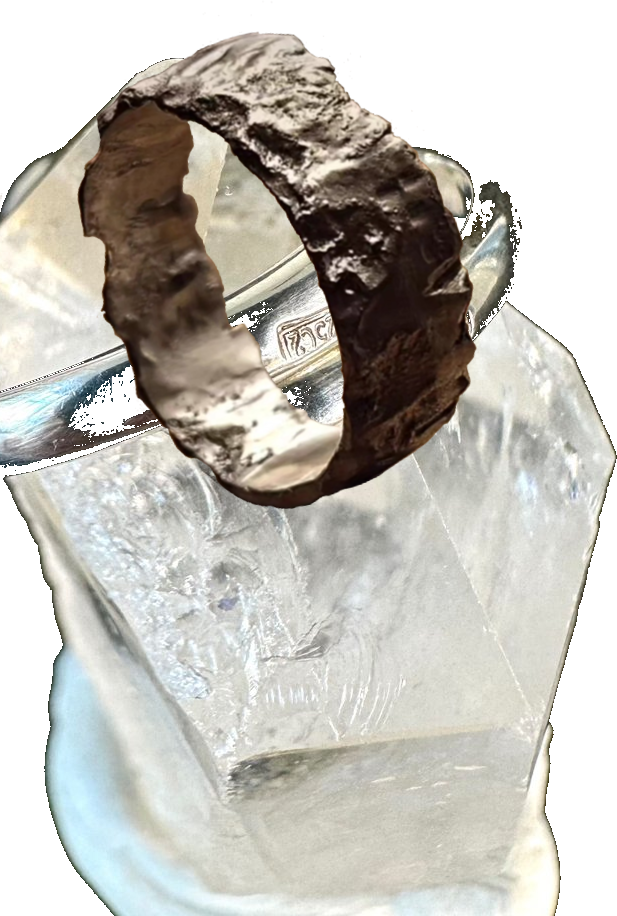
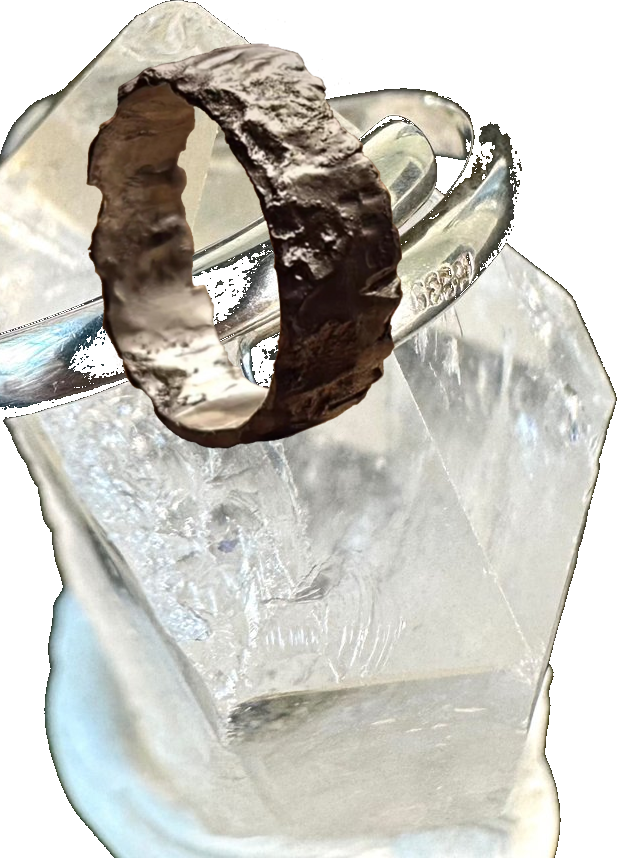
Set the ring upright on the crystal instead of tilted
Redid the composite without the -12deg rotation so the ring stands
straight/vertical on the crystal point. Adjusted .ring-stage's
aspect-ratio to match the new crop (617:858, was 617:916).

diff --git a/css/style.css b/css/style.css
@@ -824,7 +824,7 @@ html.curtain-lock body { overflow: hidden; height: 100%; }
   top: 46%;
   left: 50%;
   width: min(62vmin, 460px);
-  aspect-ratio: 617 / 916; /* Format des Kristall-Sockel-Fotos */
+  aspect-ratio: 617 / 858; /* Format des Kristall-Sockel-Fotos */
   z-index: 2;
   opacity: 0;
   will-change: transform, opacity;
